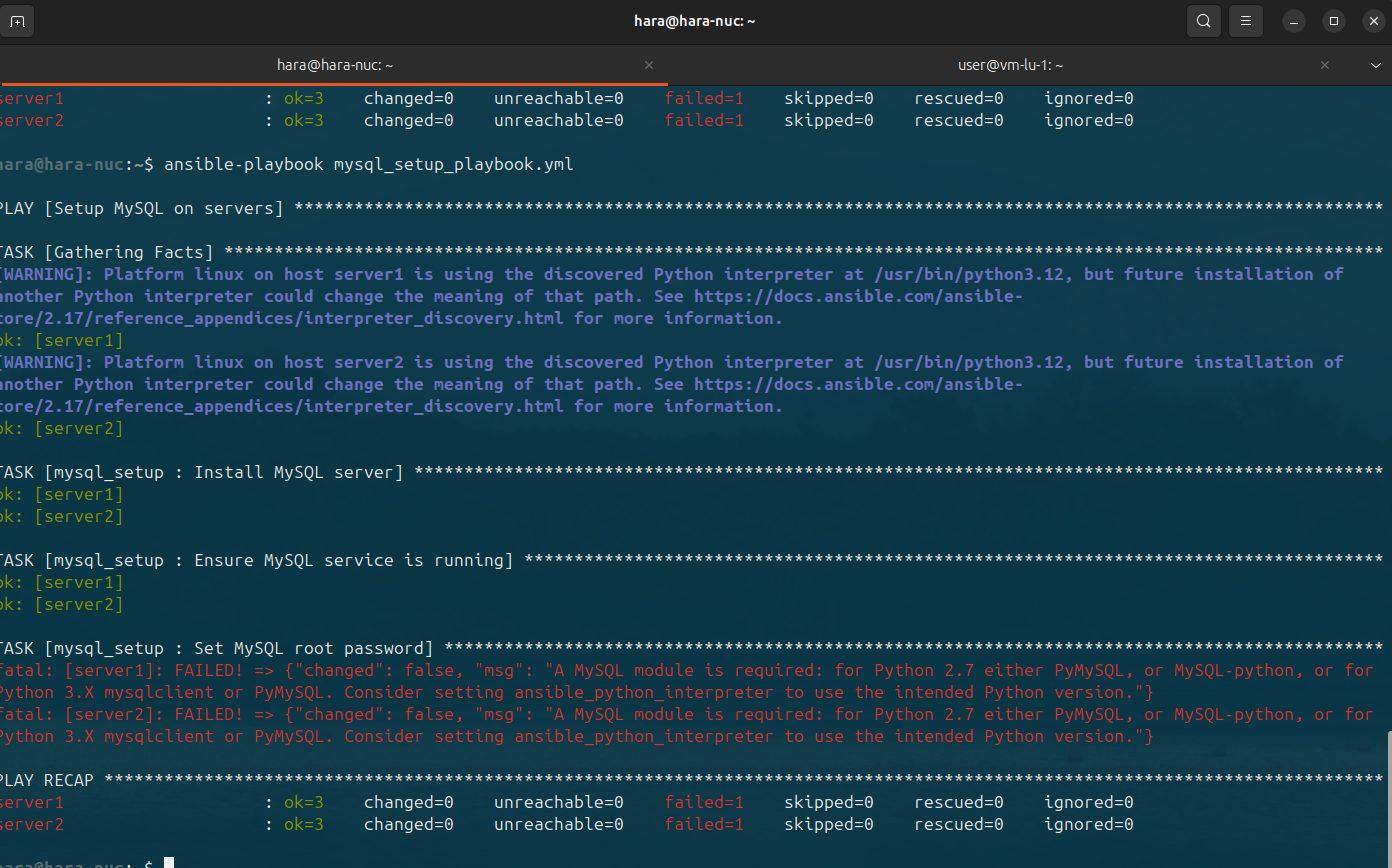
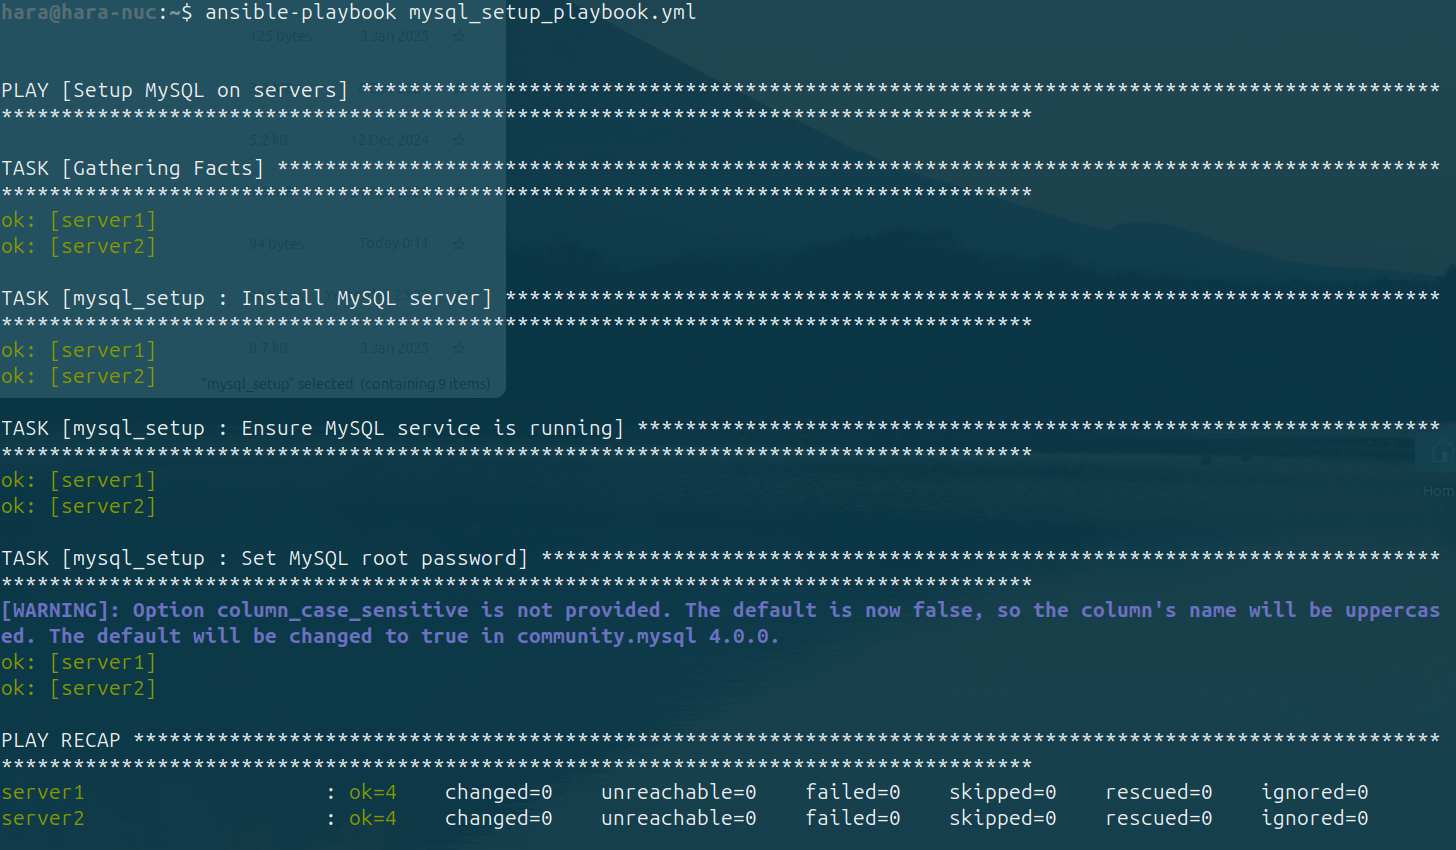
Ansible 3 fixed

diff --git a/Homework_Lesson20_Ansible3/report.md b/Homework_Lesson20_Ansible3/report.md
@@ -50,7 +50,7 @@ Nginx установлен и настроен на серверах `192.168.10
 4. Роль успешно применена через плейбук `mysql_setup_playbook.yml`.
 
 #### Результат
-MySQL мог бы быть установлен и настроен на серверах `192.168.100.29` и `192.168.100.32` если бы пакеты совмещались.
+MySQL установлен и настроен на серверах `192.168.100.29` и `192.168.100.32`.
 
 ![Скриншот 2:](images/2.png)
 
